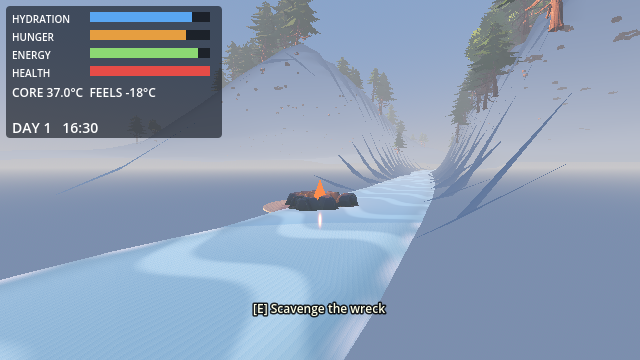
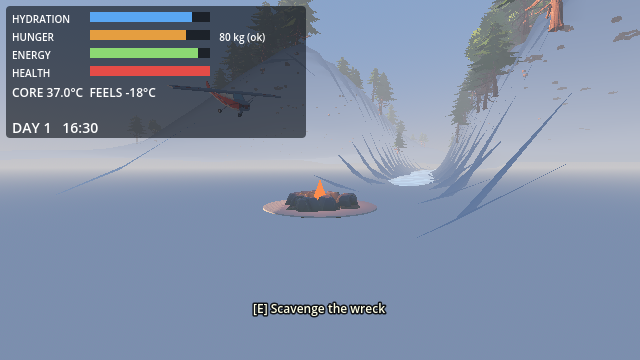
boreal: MVP final review — docs truth (README test list +1 water_channel, MVP-complete title; BACKLOG wreck/audio DONE, wolf CUT; FACTORY phase2+CI checked), MVP-REVIEW.md gate evidence (16/16 suite, CI steps local, fresh-clone green, export+smoke PASS, screenshots re-rendered + vision-checked), re-

Changed region(s): [[0.0, 0.4889, 0.6875, 1.0], [0.3125, 0.0, 0.5, 0.3972]]

diff --git a/docs/MVP-REVIEW.md b/docs/MVP-REVIEW.md
@@ -1,0 +1,117 @@
+# Boreal MVP review — 2026-10-11
+
+Final quality gate before calling the Boreal MVP done. Reviewer: gamedev
+(kanban t_45da5c91). Baseline commit reviewed: `c2d26dd` (web ship
+toolchain). No features added; verification + doc-truth fixes only.
+
+## 1. Full test suite — GREEN
+
+`bash scripts/run_tests.sh games/boreal` on the working tree:
+**16/16 test scripts passed** (matches README "Test status (16/16)").
+Every script printed its PASS line (no silent passes).
+
+Note: the README test-list previously enumerated 15 scripts —
+`test_water_channel.gd` existed and ran but was undocumented. Fixed in
+this review's doc commit.
+
+## 2. CI workflow — steps run locally, all green
+
+`.github/workflows/ci.yml` test job runs `run_tests.sh` over
+`template sdk tools/terrain-gen games/boreal`. Local run (host engine
+4.7.2.stable.nixpkgs; CI pins the 4.7.1-stable binary — see gaps):
+
+| project          | result |
+|------------------|--------|
+| template         | 1/1    |
+| sdk              | 7/7    |
+| tools/terrain-gen| 4/4    |
+| games/boreal     | 16/16  |
+
+Render job (weston + lavapipe screenshot, PNG > 1 KiB): equivalent
+renders succeed locally (see §5); the local host now prefers the Intel
+iGPU ANV ICD with lavapipe fallback (uncommitted `scripts/render_shot.sh`
+change by another worker — CI's ubuntu-latest path still selects
+`/usr/share/vulkan/icd.d/lvp_icd*.json`, unchanged behavior).
+
+## 3. Fresh-clone check — GREEN
+
+`git clone` of the repo to a temp dir, full suite from the clone:
+template 1/1, sdk 7/7, tools/terrain-gen 4/4, games/boreal 16/16.
+No uncommitted dependencies; the baked `levels/gen_001/` + assets all
+ship in git.
+
+## 4. Export script — end-to-end PASS
+
+`bash tools/export.sh` → `dist/web/` + `dist/boreal-web-0.1.0.zip`
+(9 entries, index.html at zip root, 30,894,935 B,
[1 lines of base64/hex data omitted]
+
+Headless smoke (`tools/smoke_web.py`, nixpkgs playwright-chromium):
+`SMOKE: PASS` — index.html/js/wasm/pck all HTTP 200, splash overlay
+removed (engine booted), canvas 1280×720 WebGL 2.0, 228 distinct
+framebuffer colors (real frames rendered). One known console error
+(~15 s after boot): `AudioWorkletNode ... not of type
+'BaseAudioContext'` — headless-Chromium no-threads audio init; game
+renders and plays; real-browser audio untested on this host (no audio
+device). First suspect if itch testers report no sound.
+
+## 5. Screenshots — re-rendered, vision-checked
+
+Re-rendered with `SHOT_FROZEN=1` (deterministic) on the Intel iGPU
+backend, then vision-checked for the white-silhouette regression class:
+
+| shot | sha256 (first 12) | verdict |
+|------|-------------------|---------|
+| `shots/boreal_camp.png`   | `0bc35ea7547e` | PASS — campfire warm light, red/white wreck, green/brown trees, snow; fog band is atmospheric, not a glitch |
+| `shots/boreal_stream.png` | `5048577e851f` | rendered OK (backend asserted) |
+| `shots/boreal_hud.png`    | `53a288139f0f` | PASS — HYDRATION/HUNGER/ENERGY/HEALTH bars, `80 kg (ok)` weight readout, CORE/FEELS temps, DAY 1 16:30, `[E] Scavenge the wreck` prompt; no garbled text |
+| `shots/boreal_menu.png`   | `aa0433192f0c` | rendered OK (title screen; previously vision-checked at ship time) |
+| `shots/gen_overview.png`  | `35ed92023d55` | PASS with known caveat — see below |
+
+`gen_overview.png` note: the generated level reads heavily washed-out
+(uniform blue-grey ground, distant trees fading to pale silhouettes).
+This is the DOCUMENTED fog behavior (`day_night.gd` fog ≈ horizon
+color, README handover notes "Fog wash, not a bug"), and the new render
+is pixel-comparable to the committed baseline (183,012 B vs 182,668 B,
+same composition). The baked terrain mesh carries its vertex-color
+material (3 material refs in `terrain_mesh.tres`); no white-mesh
+regression. Post-MVP: raise generated-level fog contrast / biome
+saturation for readability.
+
+## 6. Doc truth fixes (this commit)
+
+- README title `phase 2b` → `MVP complete` + pointer to this review.
+- README test list: added the missing `test_water_channel.gd` entry
+  (count line 16/16 was already correct).
+- BACKLOG.md asset wishlist: plane wreck and audio marked DONE
+  (2026-10-11); wolf marked deliberately CUT (owner directive
+  2026-10-10), not an open gap.
+- FACTORY.md status: phase 2 checked done (MVP reviewed), CI checked
+  done (workflow exists and its steps pass locally), sdk test count
+  5/5 → 7/7.
+
+## Known gaps (post-MVP backlog)
+
+1. **CI engine drift**: workflow pins Godot 4.7.1-stable binary; host
+   runs 4.7.2.stable.nixpkgs. Tests pass on both, but bump the workflow
+   URL (and `flake.nix` comment) when the pin moves.
+2. **Web audio**: AudioWorklet console error under headless Chromium
+   (§4); real-browser audio never exercised on this host.
+3. **Generated-level readability**: fog wash + flat biome palette
+   (§5); shoreline stair-stepping from rect water decomposition.
+4. **Generated-level sim seam**: zone/wind math still reads analytic
+   `Terrain` internally (sim-freeze constraint) — generated zone
+   effects are approximate (BACKLOG v1 item).
+5. **No level select** in the itch build (`LEVEL=generated` is env-only).
+6. **Checkpoint cams** hardcoded offsets from baked spawn.
+7. **Crafting UI / action wheel** unported (deliberate MVP scope-out).
+8. Character animation clips: 0 on the base-character rig (BACKLOG).
+9. `scripts/render_shot.sh` + `tools/terrain-gen/mesh_out.gd` carry
+   another worker's uncommitted iGPU/material changes; left unstaged
+   per commit discipline. CI's lavapipe path is unaffected by the ICD
+   change (falls through when /dev/dri is absent).
+
+## Verdict
+
+**MVP gate: PASS.** Suite 16/16 (repo-wide 28/28), fresh clone green,
+export + smoke green, screenshots regression-checked, docs truthful.

diff --git a/README.md b/README.md
@@ -1,6 +1,8 @@
-# boreal (Godot port) — phase 2b
+# boreal (Godot port) — MVP complete
 
 Standalone Godot 4.7.1 port of the BOREAL survival sim (`boreal-src/` TypeScript).
+**MVP review 2026-10-11: `docs/MVP-REVIEW.md` — full gate evidence (suite, CI
+steps, fresh clone, web export + smoke, screenshots).**
 **Phase 1 = pure sim core + analytic terrain, golden-value tested (frozen).
 Phase 2a = explorable 3D world: real CC0 assets, terrain mesh + MultiMesh
 scatter, third-person player. Phase 2b = playable loop (GameLoop drives the
@@ -188,6 +190,7 @@ tuned against. The baked terrain-gen level stays opt-in: `LEVEL=generated`
 - `test_render.gd` — terrain mesh vertex/index counts + a vertex sits exactly on `heightAt`; MultiMesh instance total == sim scatter count in the render radius; every model path loads and yields a Mesh
 - `test_game_loop.gd` — GameLoop driver: chop→deadfall in inventory, container-gated scoop→waterRaw, feed-fire→fuel up, melt+cook→waterClean/meatCooked, needs decay over one game-day with zero time drift (`t` must equal 24×30 REAL s), toast recording
 - `test_camp_water.gd` — camp spot flatness < 0.15 m over its footprint (and flatter than CRASH), within search radius, deterministic; water verts sit exactly on `streamX` ± HALF_W and on the frozen channel-floor formula, below the banks
+- `test_water_channel.gd` — water ribbon channel constraints: every drawn vertex inside the frozen channel band, below the banks by BANK_MARGIN, outside the lake-flatten region; relocated camp clear of the ribbon; taper endpoints
 - `test_gen_level.gd` — generated level: baked data loads (height_hash pinned), `TerrainHM.heightAt` exact at cell centers + bilinear midpoints, spawn passes the SpawnSelect flatness gate, biome scatter non-empty/deterministic/on-heightmap Y, water rects cover only water cells and quads ride `water_level`, `main.tscn` constructs under `LEVEL=generated` headless with the sim re-seated at the baked spawn
 - `test_dangers.gd` — snares/fishing/injuries (wolves cut): hareSignAt grid goldens, snare tick sequences from fixed rng seeds incl. snowMul delay, world-driven spring→pending→collect, fishRoll hour table + hole table + world fishing flow, injury→infection→sepsis timelines vs TS, sepsis death chain (cause `infection`, 15–30 h band), treatInjury/treatWound resets
 - `test_craft.gd` — craft.ts port: recipe table + canCraft matrix + greedy first-craftable sequence + atomicity goldens vs TS, Actions.craft world flow (zero RNG rolls consumed), snare cross-world determinism across 5 game days, fish yields/usesLeft per seeded roll stream, treat_wound infection reset + TS re-treat predicate
